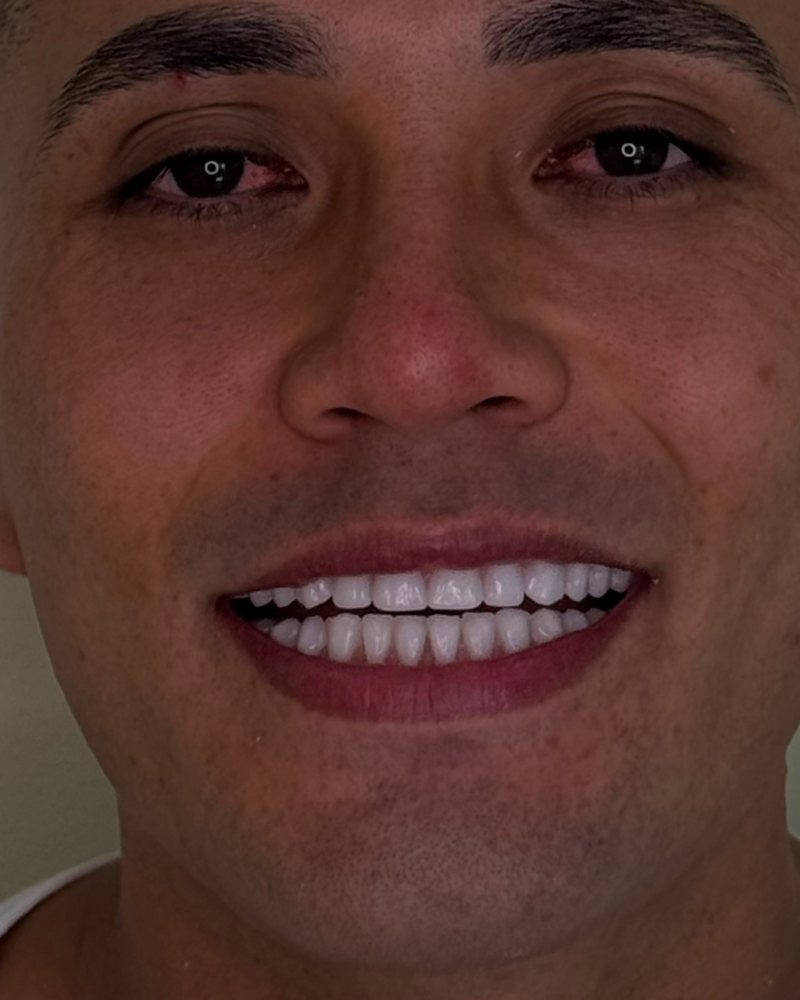
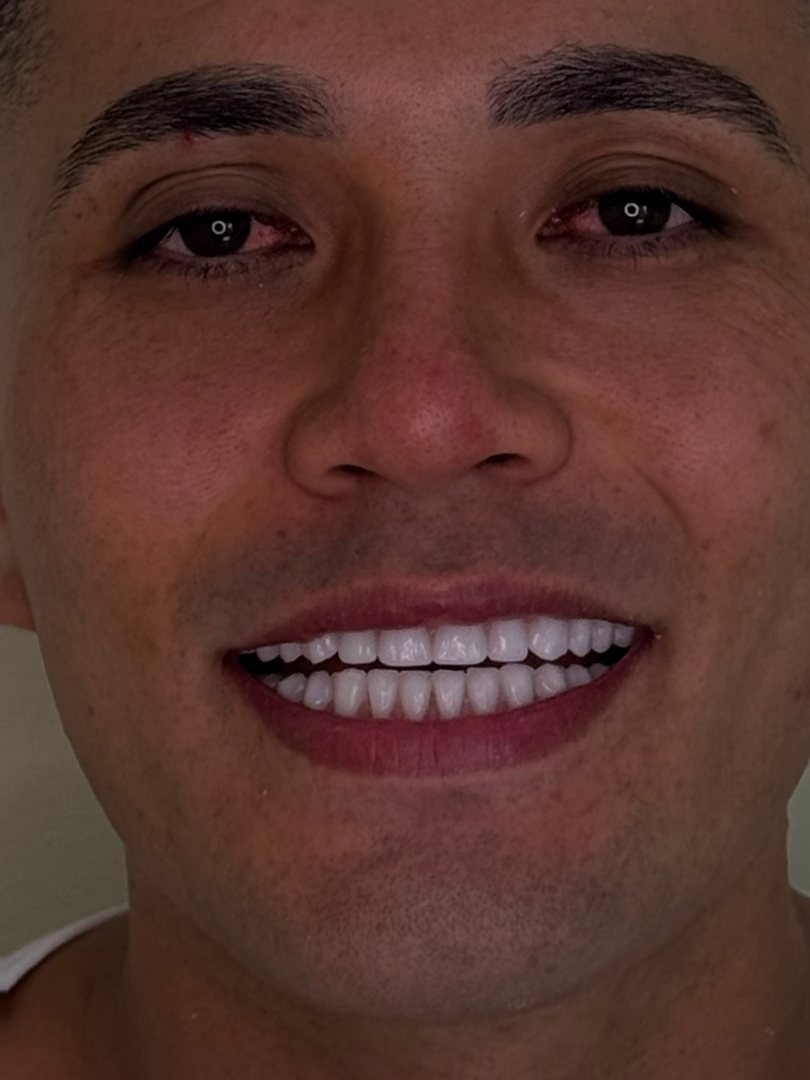
Zoom out before/after crops to show more of the face (3:4 frame), remove watermarks
Claude-Session: https://claude.ai/code/session_011M2KAfbiXzYiuKdHpfC1dX

diff --git a/site/index.html b/site/index.html
@@ -212,7 +212,7 @@
   .panel[hidden]{display:none}
 
   /* Antes e depois */
-  .compare{position:relative;width:100%;aspect-ratio:4/5;border-radius:calc(20*var(--u));overflow:hidden;background:#eadbd0;
+  .compare{position:relative;width:100%;aspect-ratio:3/4;border-radius:calc(20*var(--u));overflow:hidden;background:#eadbd0;
     box-shadow:0 calc(26*var(--u)) calc(50*var(--u)) rgba(120,80,40,.18);user-select:none;touch-action:pan-y}
   .compare .layer{position:absolute;inset:0}
   .compare img{width:100%;height:100%;object-fit:cover;display:block;pointer-events:none}
